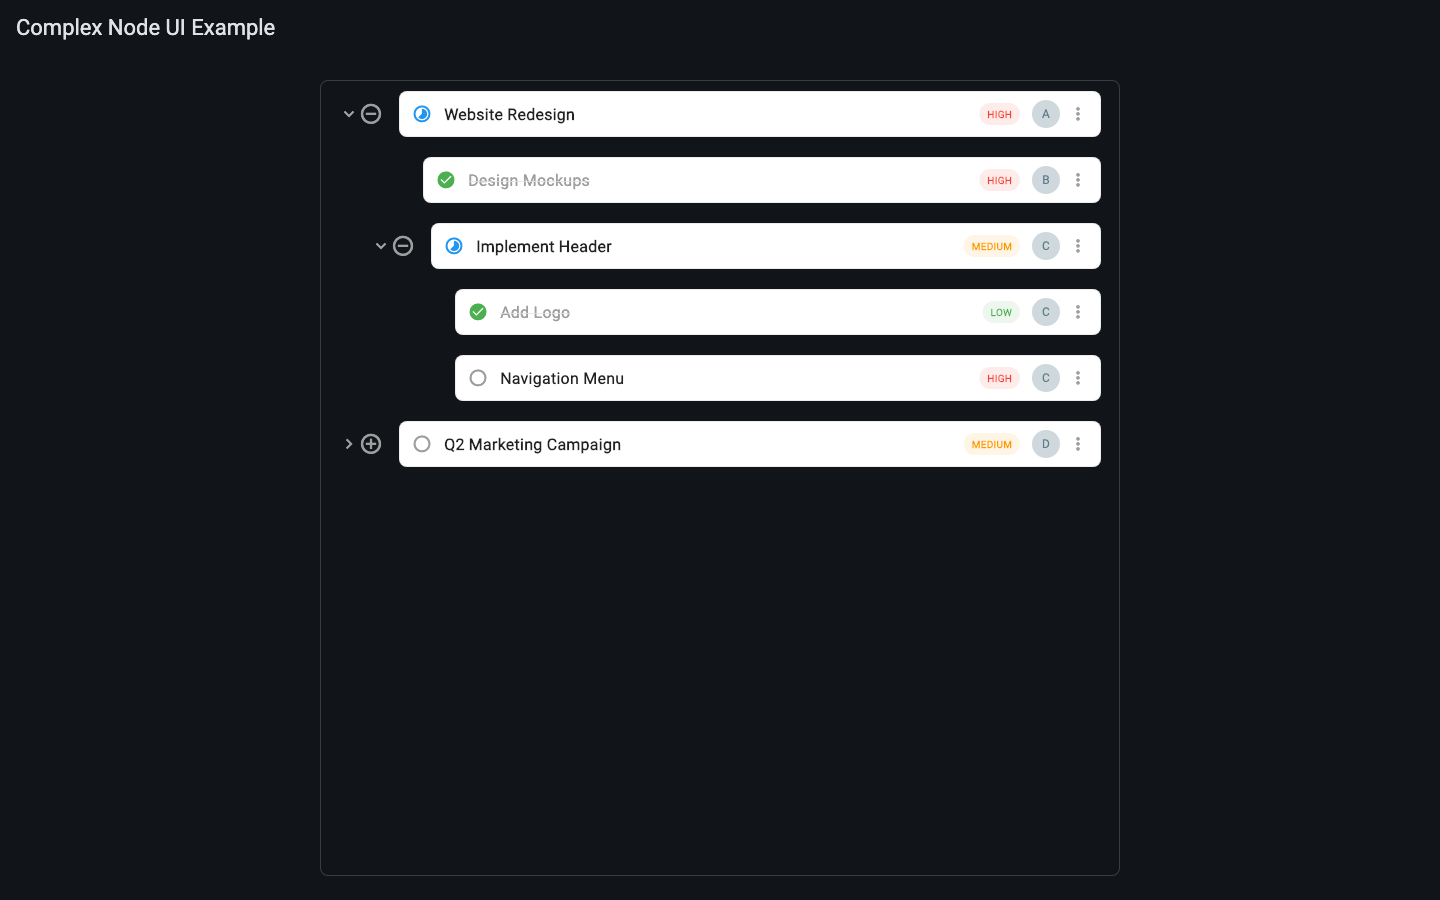
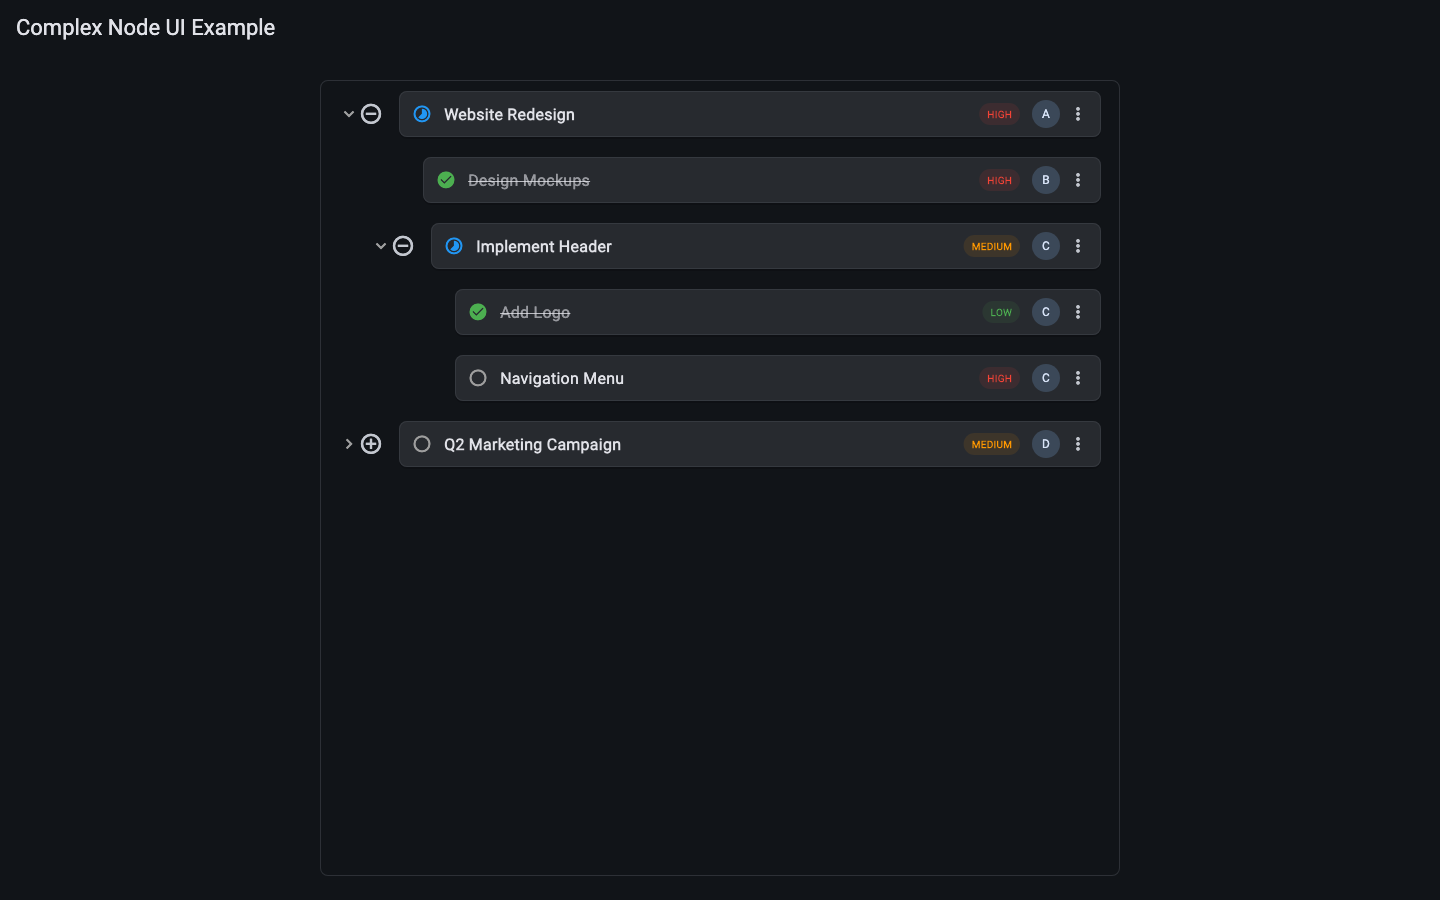
docs: update Complex Node UI example for improved theming and clarity

Changed region(s): [[0.25, 0.0933, 0.7812, 0.5289]]

diff --git a/example/lib/examples/complex_node_example.dart b/example/lib/examples/complex_node_example.dart
@@ -2,6 +2,7 @@ import 'package:flutter/material.dart';
 import 'package:super_tree/super_tree.dart';
 
 enum TaskPriority { low, medium, high }
+
 enum TaskStatus { todo, inProgress, done }
 
 class TaskItem {
@@ -141,51 +142,53 @@ class _ComplexNodeExampleState extends State<ComplexNodeExample> {
 
   @override
   Widget build(BuildContext context) {
+    final ColorScheme scheme = Theme.of(context).colorScheme;
+
     return Scaffold(
-      appBar: AppBar(
-        title: const Text('Complex Node UI Example'),
-      ),
+      appBar: AppBar(title: const Text('Complex Node UI Example')),
       body: Padding(
         padding: const EdgeInsets.all(24.0),
         child: Center(
           child: Container(
             constraints: const BoxConstraints(maxWidth: 800),
             decoration: BoxDecoration(
-              border: Border.all(color: Colors.grey.withValues(alpha: 0.3)),
+              border: Border.all(color: scheme.outlineVariant.withValues(alpha: 0.55)),
               borderRadius: BorderRadius.circular(8),
             ),
             child: SuperTreeView<TaskItem>(
               controller: _controller,
               style: TreeViewStyle(
                 indentAmount: 32.0,
-                selectedColor: Colors.blue.withValues(alpha: 0.1),
-                hoverColor: Colors.grey.withValues(alpha: 0.05),
+                selectedColor: scheme.secondaryContainer.withValues(alpha: 0.35),
+                hoverColor: scheme.surfaceContainerHigh.withValues(alpha: 0.8),
                 padding: const EdgeInsets.symmetric(vertical: 8.0, horizontal: 16.0),
               ),
-              logic: const TreeViewConfig(
-                expansionTrigger: ExpansionTrigger.tap,
-              ),
+              logic: const TreeViewConfig(expansionTrigger: ExpansionTrigger.tap),
               prefixBuilder: (context, node) {
                 if (node.children.isEmpty) return const SizedBox(width: 24);
                 return Padding(
                   padding: const EdgeInsets.only(right: 8.0),
                   child: Icon(
                     node.isExpanded ? Icons.remove_circle_outline : Icons.add_circle_outline,
-                    color: Colors.grey,
+                    color: scheme.onSurfaceVariant,
                   ),
                 );
               },
               contentBuilder: (context, node, renameField) {
                 final data = node.data;
+                final Color titleColor = data.status == TaskStatus.done
+                    ? scheme.onSurface.withValues(alpha: 0.6)
+                    : scheme.onSurface;
+
                 return Container(
                   padding: const EdgeInsets.symmetric(vertical: 8, horizontal: 12),
                   decoration: BoxDecoration(
-                    color: Colors.white,
-                    border: Border.all(color: Colors.grey.withValues(alpha: 0.2)),
+                    color: scheme.surfaceContainerHigh,
+                    border: Border.all(color: scheme.outlineVariant.withValues(alpha: 0.5)),
                     borderRadius: BorderRadius.circular(8),
                     boxShadow: [
                       BoxShadow(
-                        color: Colors.black.withValues(alpha: 0.02),
+                        color: Colors.black.withValues(alpha: 0.18),
                         blurRadius: 4,
                         offset: const Offset(0, 2),
                       ),
@@ -213,22 +216,28 @@ class _ComplexNodeExampleState extends State<ComplexNodeExample> {
                         ),
                       ),
                       const SizedBox(width: 12),
-                      
+
                       // Title
                       Expanded(
-                        child: renameField ?? Text(
-                          data.title,
-                          maxLines: 1,
-                          overflow: TextOverflow.clip,
-                          style: TextStyle(
-                            fontSize: 16,
-                            fontWeight: node.children.isNotEmpty ? FontWeight.bold : FontWeight.normal,
-                            decoration: data.status == TaskStatus.done ? TextDecoration.lineThrough : null,
-                            color: data.status == TaskStatus.done ? Colors.grey : Colors.black87,
-                          ),
-                        ),
+                        child:
+                            renameField ??
+                            Text(
+                              data.title,
+                              maxLines: 1,
+                              overflow: TextOverflow.clip,
+                              style: TextStyle(
+                                fontSize: 16,
+                                fontWeight: node.children.isNotEmpty
+                                    ? FontWeight.bold
+                                    : FontWeight.normal,
+                                decoration: data.status == TaskStatus.done
+                                    ? TextDecoration.lineThrough
+                                    : null,
+                                color: titleColor,
+                              ),
+                            ),
                       ),
-                      
+
                       // Priority Chip
                       Container(
                         padding: const EdgeInsets.symmetric(horizontal: 8, vertical: 4),
@@ -246,20 +255,20 @@ class _ComplexNodeExampleState extends State<ComplexNodeExample> {
                         ),
                       ),
                       const SizedBox(width: 12),
-                      
+
                       // Assignee Avatar
                       CircleAvatar(
                         radius: 14,
-                        backgroundColor: Colors.blueGrey[100],
+                        backgroundColor: scheme.secondaryContainer,
                         child: Text(
                           data.assignee[0],
-                          style: const TextStyle(fontSize: 12, color: Colors.blueGrey),
+                          style: TextStyle(fontSize: 12, color: scheme.onSecondaryContainer),
                         ),
                       ),
-                      
+
                       const SizedBox(width: 8),
                       // More actions menu
-                      const Icon(Icons.more_vert, size: 20, color: Colors.grey),
+                      Icon(Icons.more_vert, size: 20, color: scheme.onSurfaceVariant),
                     ],
                   ),
                 );

diff --git a/README.md b/README.md
@@ -70,64 +70,29 @@ final controller = TreeController<MyData>(
 // Toggle programmatically
 controller.expandAll();
 controller.addRoot(newNode);
+
+controller.search("query");
 ```
-
-### Built-In Fuzzy Filtering
-
-`super_tree` includes reusable fuzzy-search primitives (`TreeSearchController`,
-`defaultTreeFuzzyMatcher`) and a composable `FuzzyTreeFilter` helper for
-keyword rules and custom matcher hooks.
-
-```dart
-final FuzzyTreeFilter<TodoItem> filter = FuzzyTreeFilter<TodoItem>(
-  keywordRules: <TreeFilterKeywordRule<TodoItem>>[
-    TreeFilterKeywordRule<TodoItem>(
-      keywords: <String>{'done', 'completed'},
-      predicate: (TreeNode<TodoItem> node) => node.data.isCompleted,
-    ),
-    TreeFilterKeywordRule<TodoItem>(
-      keywords: <String>{'open', 'pending'},
-      predicate: (TreeNode<TodoItem> node) => !node.data.isCompleted,
-    ),
-  ],
-);
-
-final TreeSearchController<TodoItem> searchController =
-    TreeSearchController<TodoItem>(
-      treeController: controller,
-      labelProvider: (TodoItem item) => item.title,
-      searchMatcher: filter.asSearchMatcher(),
-      expansionBehavior: TreeSearchExpansionBehavior.expandAncestors,
-    );
-```
-
-Behavior notes:
-- Empty query: `FuzzyTreeFilter` returns a zero-score empty-highlight match; in normal usage call `searchController.clearSearch()` to restore unfiltered state.
-- No match: search keeps the current query active and shows no visible nodes until the query changes or is cleared.
-- Extension queries: use `FuzzyTreeFilter.extensionSuffixMatcher` to support terms like `.dart` for file-like trees.
-
-## Examples
-
-Check the [example project](example/lib/main.dart) for comprehensive demonstrations including:
-
-- **File System Explorer**: VS Code style implementation with themes and icons.
-- **Todo List**: Hierarchical task management with checkboxes.
-- **Checkbox States**: Stateful checkbox behavior and parent-child tree workflows.
-- **Responsive Menus**: Adaptive interaction patterns for Mobile and Desktop.
 
 ### Preview Gallery
 
 Current in-repo previews:
 
-| Example                       | Preview                                                                                         |
-| ----------------------------- | ----------------------------------------------------------------------------------------------- |
-| File System Explorer + Search | ![File System Explorer with search active](assets/screenshots/file-system-search-macos.png)   |
-| Checkbox State                | ![Checkbox state example on macOS desktop layout](assets/screenshots/checkbox-state-macos.png) |
-| Complex Node UI               | ![Complex node UI example on macOS desktop layout](assets/screenshots/complex-node-ui-macos.png) |
-| Todo Tree                     | ![Todo tree example on macOS desktop layout](assets/screenshots/todo-tree-macos.png)          |
-| Minimal File System           | ![Minimal file system example on macOS desktop layout](assets/screenshots/minimal-file-system-macos.png) |
-| Async Lazy Loading            | ![Async lazy loading example on macOS desktop layout](assets/screenshots/async-lazy-loading-macos.png) |
-| Integrity Guardrails          | ![Integrity guardrails example on macOS desktop layout](assets/screenshots/integrity-guardrails-macos.png) |
+<table>
+  <tr>
+    <td align="center"><strong><a href="example/lib/examples/file_system_example.dart">File System Explorer + Search</a></strong><br><img src="assets/screenshots/file-system-search-macos.png" alt="File System Explorer with search active" width="360" /></td>
+    <td align="center"><strong><a href="example/lib/examples/checkbox_example.dart">Checkbox State</a></strong><br><img src="assets/screenshots/checkbox-state-macos.png" alt="Checkbox state example on macOS desktop layout" width="360" /></td>
+  </tr>
+  <tr>
+    <td align="center"><strong><a href="example/lib/examples/complex_node_example.dart">Complex Node UI</a></strong><br><img src="assets/screenshots/complex-node-ui-macos.png" alt="Complex node UI example on macOS desktop layout" width="360" /></td>
+    <td align="center"><strong><a href="example/lib/examples/todo_list_example.dart">Todo Tree</a></strong><br><img src="assets/screenshots/todo-tree-macos.png" alt="Todo tree example on macOS desktop layout" width="360" /></td>
+  </tr>
+  <tr>
+    <td align="center"><strong><a href="example/lib/examples/simple_file_system_example.dart">Minimal File System</a></strong><br><img src="assets/screenshots/minimal-file-system-macos.png" alt="Minimal file system example on macOS desktop layout" width="360" /></td>
+    <td align="center"></td>
+  </tr>
+</table>
+
 
 Notes:
 - Screenshot generation uses `flutter test --update-goldens` in `example/test/generate_previews_test.dart`.
